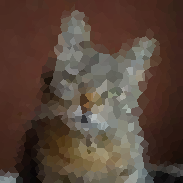
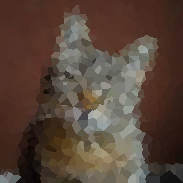
.

diff --git a/js/main.js b/js/main.js
@@ -8,14 +8,14 @@ function updateCanvas()
 		for (let i = 0; i < document.getElementById("mainRange").value; ++i)
 		{
 			let valuesTaken = true;
-			newX = Math.floor(Math.random() * document.getElementById("mainCanvas").width);
-			newY = Math.floor(Math.random() * document.getElementById("mainCanvas").height);
+			newX = Math.floor(Math.random() * document.getElementById("originalCanvas").width);
+			newY = Math.floor(Math.random() * document.getElementById("originalCanvas").height);
 			
 			while (valuesTaken)
 			{
 				valuesTaken = false;
-				newX = Math.floor((Math.random() * document.getElementById("mainCanvas").width));
-				newY = Math.floor((Math.random() * document.getElementById("mainCanvas").height));
+				newX = Math.floor((Math.random() * document.getElementById("originalCanvas").width));
+				newY = Math.floor((Math.random() * document.getElementById("originalCanvas").height));
 				
 				for (let j = 0; j < generators.length && !valuesTaken; ++j)
 				{
@@ -35,12 +35,18 @@ function updateCanvas()
 		
 		let mainCanvas = document.getElementById("mainCanvas");
 		let mainCanvasContext = mainCanvas.getContext("2d");
+
+		let manhattanCanvas = document.getElementById("manhattanCanvas");
+		let manhattanCanvasContext = manhattanCanvas.getContext("2d");
 		
 		let originalImageData = originalCanvasContext.getImageData(0, 0, originalCanvas.width, originalCanvas.height);
 		let originalPixels = originalImageData.data;
 		
 		let mainImageData = mainCanvasContext.getImageData(0, 0, mainCanvas.width, mainCanvas.height);
 		let mainPixels = mainImageData.data;
+
+		let manhattanImageData = manhattanCanvasContext.getImageData(0, 0, manhattanCanvas.width, manhattanCanvas.height);
+		let manhattanPixels = manhattanImageData.data;
 		
 		for (let i = 0; i < originalPixels.length; i += 4)
 		{
@@ -91,11 +97,12 @@ function updateCanvas()
 			generatedAreas[i][0][2] /= (generatedAreas[i][1]);
 		}
 		
+		// Euclidian Distance
 		for (let i = 0; i < mainPixels.length; i += 4)
 		{
 			let pixelIndex = i / 4;
-			let pixelRow = Math.floor(pixelIndex / mainCanvas.width);
-			let pixelCol = pixelIndex % mainCanvas.width;
+			let pixelRow = Math.floor(pixelIndex / originalCanvas.width);
+			let pixelCol = pixelIndex % originalCanvas.width;
 			
 			let indexNearestGenerator = 0;
 			
@@ -133,6 +140,50 @@ function updateCanvas()
 		}
 		
 		mainCanvasContext.putImageData(mainImageData, 0, 0);
+		
+		// Manhattan Distance
+		for (let i = 0; i < manhattanPixels.length; i += 4)
+		{
+			let pixelIndex = i / 4;
+			let pixelRow = Math.floor(pixelIndex / originalCanvas.width);
+			let pixelCol = pixelIndex % originalCanvas.width;
+			
+			let indexNearestGenerator = 0;
+			
+			for (let j = 0; j < generators.length; ++j)
+			{
+				if
+				(
+					// Euclidian Distance
+					/*
+					(generators[indexNearestGenerator][0] - pixelRow) *
+					(generators[indexNearestGenerator][0] - pixelRow) +
+					(generators[indexNearestGenerator][1] - pixelCol) *
+					(generators[indexNearestGenerator][1] - pixelCol)
+					>
+					(generators[j][0] - pixelRow) *
+					(generators[j][0] - pixelRow) +
+					(generators[j][1] - pixelCol) *
+					(generators[j][1] - pixelCol)
+					*/
+					// Manhattan Distance
+					Math.abs(generators[indexNearestGenerator][0] - pixelRow) +
+					Math.abs(generators[indexNearestGenerator][1] - pixelCol)
+					>
+					Math.abs((generators[j][0] - pixelRow)) +
+					Math.abs((generators[j][1] - pixelCol))
+				)
+				{
+					indexNearestGenerator = j;
+				}
+			}
+			
+			manhattanPixels[i] = generatedAreas[indexNearestGenerator][0][0];
+			manhattanPixels[i + 1] = generatedAreas[indexNearestGenerator][0][1];
+			manhattanPixels[i + 2] = generatedAreas[indexNearestGenerator][0][2];
+		}
+		
+		manhattanCanvasContext.putImageData(manhattanImageData, 0, 0);
 	}
 }
 
@@ -160,6 +211,13 @@ window.onload = function()
 			let mainCanvas = document.createElement("canvas");
 			mainCanvas.id = "mainCanvas";
 			document.getElementById("mainDiv").appendChild(mainCanvas);
+
+			let manhattanDiv = document.createElement("div");
+			manhattanDiv.id = "manhattanDiv";
+			document.body.appendChild(manhattanDiv);
+			let manhattanCanvas = document.createElement("canvas");
+			manhattanCanvas.id = "manhattanCanvas";
+			document.getElementById("manhattanDiv").appendChild(manhattanCanvas);
 		}
 		
 		let originalCanvas = document.getElementById("originalCanvas");
@@ -167,6 +225,9 @@ window.onload = function()
 		
 		let mainCanvas = document.getElementById("mainCanvas");
 		let mainCanvasContext = mainCanvas.getContext("2d");
+
+		let manhattanCanvas = document.getElementById("manhattanCanvas");
+		let manhattanCanvasContext = manhattanCanvas.getContext("2d");
 		
 		let file = document.getElementById("mainFile").files[0];
 		let fileReader = new FileReader();
@@ -185,6 +246,10 @@ window.onload = function()
 				mainCanvas.width = image.width;
 				mainCanvas.height = image.height;
 				mainCanvasContext.drawImage(image, 0, 0);
+
+				manhattanCanvas.width = image.width;
+				manhattanCanvas.height = image.height;
+				manhattanCanvasContext.drawImage(image, 0, 0);
 				
 				document.getElementById("mainRange").value = document.getElementById("mainRange").min;
 				document.getElementById("mainRangeSpan").textContent = document.getElementById("mainRange").min;
